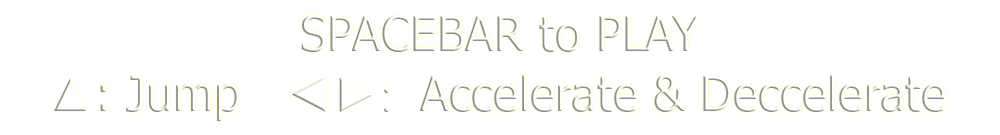
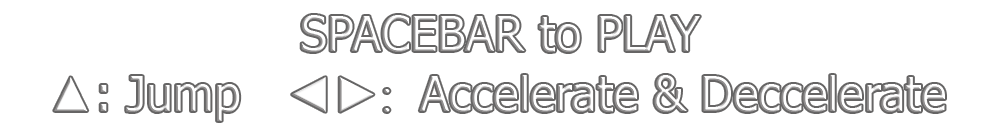
add monster 2 and fix menu instruct

diff --git a/js/main.js b/js/main.js
@@ -13,6 +13,7 @@ var gameOptions = {
     monsterSpeed: 120,
     climbSpeed: 450,
     playerJump: 900,
+    timeAddMonster: 4
 }
 window.onload = function() {
     game = new Phaser.Game(gameOptions.gameWidth, gameOptions.gameHeight,{
@@ -125,21 +126,29 @@ playGame.prototype = {
     },
     drawLevel: function(){
         this.currentFloor = 0;
+        this.temp = 0;
         this.currentLadder = 0;
         this.currentMonster = 0;
+        this.currentMonster_2 = 0;
         this.highestFloorY = game.height * gameOptions.floorStart;
         this.floorArray = [];
         this.ladderArray = [];
         this.monsterArray = [];
+        this.monster_2Array = [];
         this.isMovingRight = true;
         while(this.highestFloorY > - 3 * gameOptions.floorGap){
                 this.addFloor();
                 if(this.currentFloor >= 0){
                   this.addLadder(this.highestFloorY);
-                  this.addMonster();
+                  if(this.temp <= gameOptions.timeAddMonster){
+                    this.addMonster();
+                  } else{
+                    this.addMonster_2();
+                  }
                 }
                 this.highestFloorY -= gameOptions.floorGap;
                 this.currentFloor ++;
+                this.temp++;
         }
         this.currentFloor = 0;
         this.addHero();
@@ -150,7 +159,7 @@ playGame.prototype = {
       var randomY = game.rnd.pick(ary),
           randomVecM = game.rnd.pick(aryM);
       var monster = game.add.sprite((game.width / 2)*(this.currentFloor % 2) + game.rnd.between(400, 458), this.highestFloorY-38, 'monster');
-      monster.frame = game.rnd.integerInRange(0, 3);
+      monster.frame = game.rnd.integerInRange(0, 2);
       monster.anchor.setTo(0.5, 0);
       this.monsterGroup.add(monster);
       game.physics.enable(monster, Phaser.Physics.ARCADE);
@@ -168,6 +177,20 @@ playGame.prototype = {
               monster.scale.x = -1;
           }
       }, this);*/
+    },
+    addMonster_2: function(){
+      var aryM = [gameOptions.monsterSpeed*(-1), gameOptions.monsterSpeed];
+      var randomY = game.rnd.between(76, 116),
+          randomVecM = game.rnd.pick(aryM);
+      var monster_2 = game.add.sprite((game.width / 2)*(this.currentFloor % 2) + game.rnd.between(42, 458), this.highestFloorY-randomY, 'monster');
+      monster_2.frame = 3
+      monster_2.anchor.setTo(0.5, 0);
+      this.monster_2Group.add(monster_2);
+      game.physics.enable(monster_2, Phaser.Physics.ARCADE);
+      this.monster_2Array.push(monster_2);
+      monster_2.body.velocity.x = gameOptions.monsterSpeed;
+      monster_2.body.velocity.y = randomVecM;
+      monster_2.scale.x = 1;
     },
     addFloor: function(){
         var floor = game.add.sprite((game.width / 2)*((this.currentFloor % 2)*2), this.highestFloorY, "ground");
@@ -221,16 +244,23 @@ playGame.prototype = {
         this.floorGroup = game.add.group();
         this.ladderGroup = game.add.group();
         this.monsterGroup = game.add.group();
+        this.monster_2Group = game.add.group();
         this.gameGroup.add(this.floorGroup);
         this.gameGroup.add(this.ladderGroup);
         this.gameGroup.add(this.monsterGroup);
+        this.gameGroup.add(this.monster_2Group);
     },
     update: function(){
         game.background.tilePosition.y += 1;
         this.checkCollision();
-        this.checkLadderCollision();
+        if(counter <= gameOptions.timeAddMonster){
+          this.checkLadderCollision();
+        } else {
+          this.checkLadder_2Collision();
+        }
         this.heroOnLadder();
         this.updateMonster();
+        this.updateMonster_2();
         this.updateHero();
         this.updateMusic();
     },
@@ -280,9 +310,47 @@ playGame.prototype = {
         }
       }
     },
+    updateMonster_2: function(){
+      for(var n = 0; n<this.monster_2Array.length;n++){
+        if (n %2 == 1){
+          if(this.monster_2Array[n].position.x<521){
+            this.monster_2Array[n].body.velocity.x=gameOptions.monsterSpeed;
+            this.monster_2Array[n].scale.x = 1;
+          }
+          if(this.monster_2Array[n].position.x>958){
+            this.monster_2Array[n].body.velocity.x=-gameOptions.monsterSpeed;
+            this.monster_2Array[n].scale.x = -1;
+          }
+          if(this.monster_2Array[n].position.y<this.highestFloorY-76){
+            this.monster_2Array[n].body.velocity.y=-gameOptions.monsterSpeed;
+          }
+          if(this.monster_2Array[n].position.y>this.highestFloorY-96){
+            this.monster_2Array[n].body.velocity.y=gameOptions.monsterSpeed;
+          }
+        }else{
+          if(this.monster_2Array[n].position.x<42){
+            this.monster_2Array[n].body.velocity.x=gameOptions.monsterSpeed;
+            this.monster_2Array[n].scale.x = 1;
+          }
+          if(this.monster_2Array[n].position.x>458){
+            this.monster_2Array[n].body.velocity.x=-gameOptions.monsterSpeed;
+            this.monster_2Array[n].scale.x = -1;
+          }
+          if(this.monster_2Array[n].position.y<this.highestFloorY-76){
+            this.monster_2Array[n].body.velocity.y=-gameOptions.monsterSpeed;
+          }
+          if(this.monster_2Array[n].position.y>this.highestFloorY-96){
+            this.monster_2Array[n].body.velocity.y=gameOptions.monsterSpeed;
+          }
+        }
+      }
+    },
     checkCollision: function(){
       //monster collision check
       game.physics.arcade.collide(this.monsterArray, this.hero, function(){
+        game.state.start('GameOver');
+      }, null, this);
+      game.physics.arcade.collide(this.monster_2Array, this.hero, function(){
         game.state.start('GameOver');
       }, null, this);
       //floor collision check
@@ -309,6 +377,25 @@ playGame.prototype = {
             }
         }, null, this);
     },
+    checkLadder_2Collision: function(){
+        game.physics.arcade.overlap(this.hero, this.ladderArray, function(player, ladder){
+            if(!this.isClimbing && Math.abs(player.x - ladder.x) < 10){
+                this.hero.body.velocity.x = 0;
+                this.hero.body.velocity.y = - gameOptions.climbSpeed;
+                this.hero.body.gravity.y = 0;
+                this.isClimbing = true;
+                this.fadeTween.target =  this.floorArray[this.currentFloor];
+                this.currentFloor = (this.currentFloor + 1) % this.floorArray.length;
+                this.fadeTween.start();
+                this.scrollTween.start();
+                this.fadeLadder.target =  this.ladderArray[this.currentLadder];
+                this.fadeLadder.start();
+                this.fadeMonster_2.target =  this.monster_2Array[this.currentMonster_2];
+                this.fadeMonster_2.start();
+                this.currentMonster_2 = (this.currentMonster_2+1) % this.monster_2Array.length;
+            }
+        }, null, this);
+    },
     defineTweens: function(){
         this.scrollTween = game.add.tween(this.gameGroup).to({
             y: gameOptions.floorGap
@@ -316,6 +403,9 @@ playGame.prototype = {
         this.scrollTween.onComplete.add(function(){
                 this.gameGroup.y = 0;
                 this.monsterGroup.forEach(function(item) {
+                    item.y += gameOptions.floorGap;
+                }, this);
+                this.monster_2Group.forEach(function(item) {
                     item.y += gameOptions.floorGap;
                 }, this);
                 this.floorGroup.forEach(function(item) {
@@ -350,6 +440,14 @@ playGame.prototype = {
         this.fadeMonster.onComplete.add(function(monster){
                 monster.y = this.highestFloorY-40;
                 monster.alpha =1;
+        }, this);
+
+        this.fadeMonster_2 = game.add.tween(this.monster_2Array[0]).to({
+            alpha: 0
+        }, 200, Phaser.Easing.Cubic.Out);
+        this.fadeMonster_2.onComplete.add(function(monster_2){
+                monster_2.y = this.highestFloorY-40;
+                monster_2.alpha =1;
         }, this);
     },
     heroOnLadder: function(){
